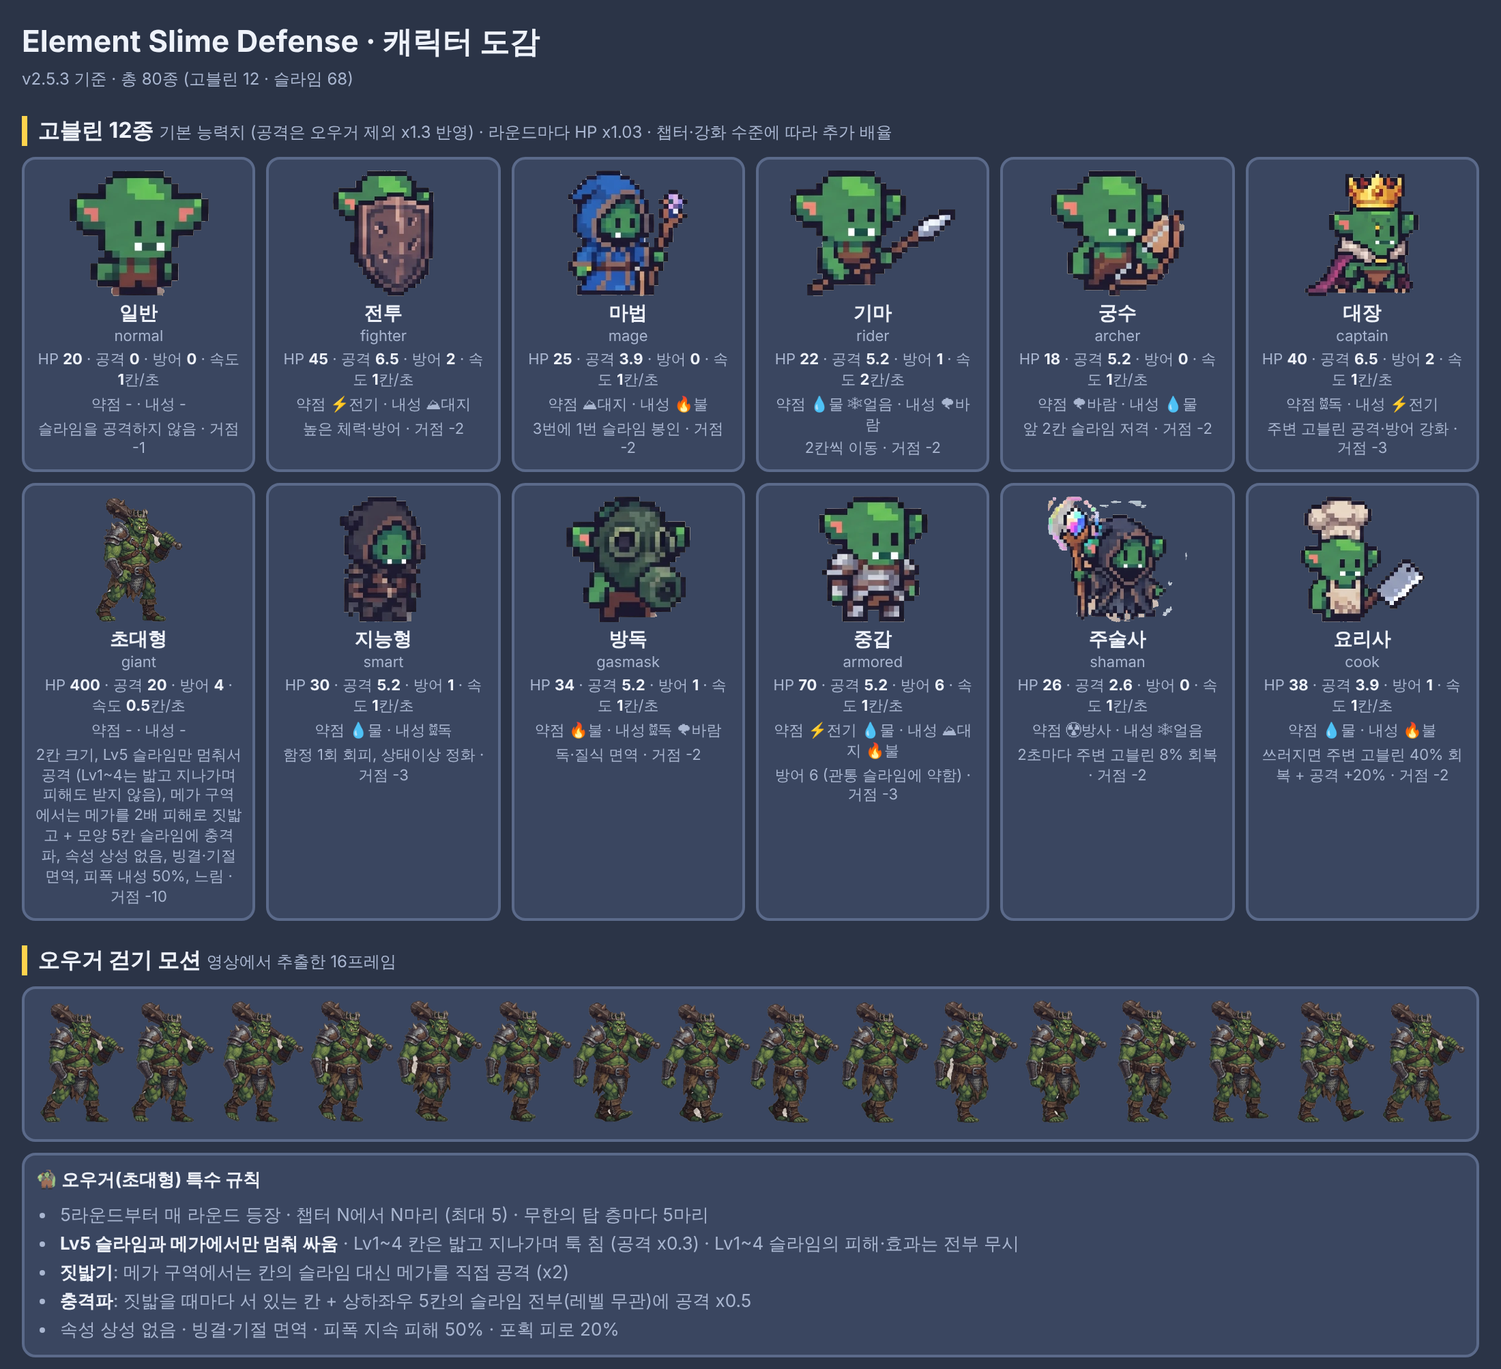
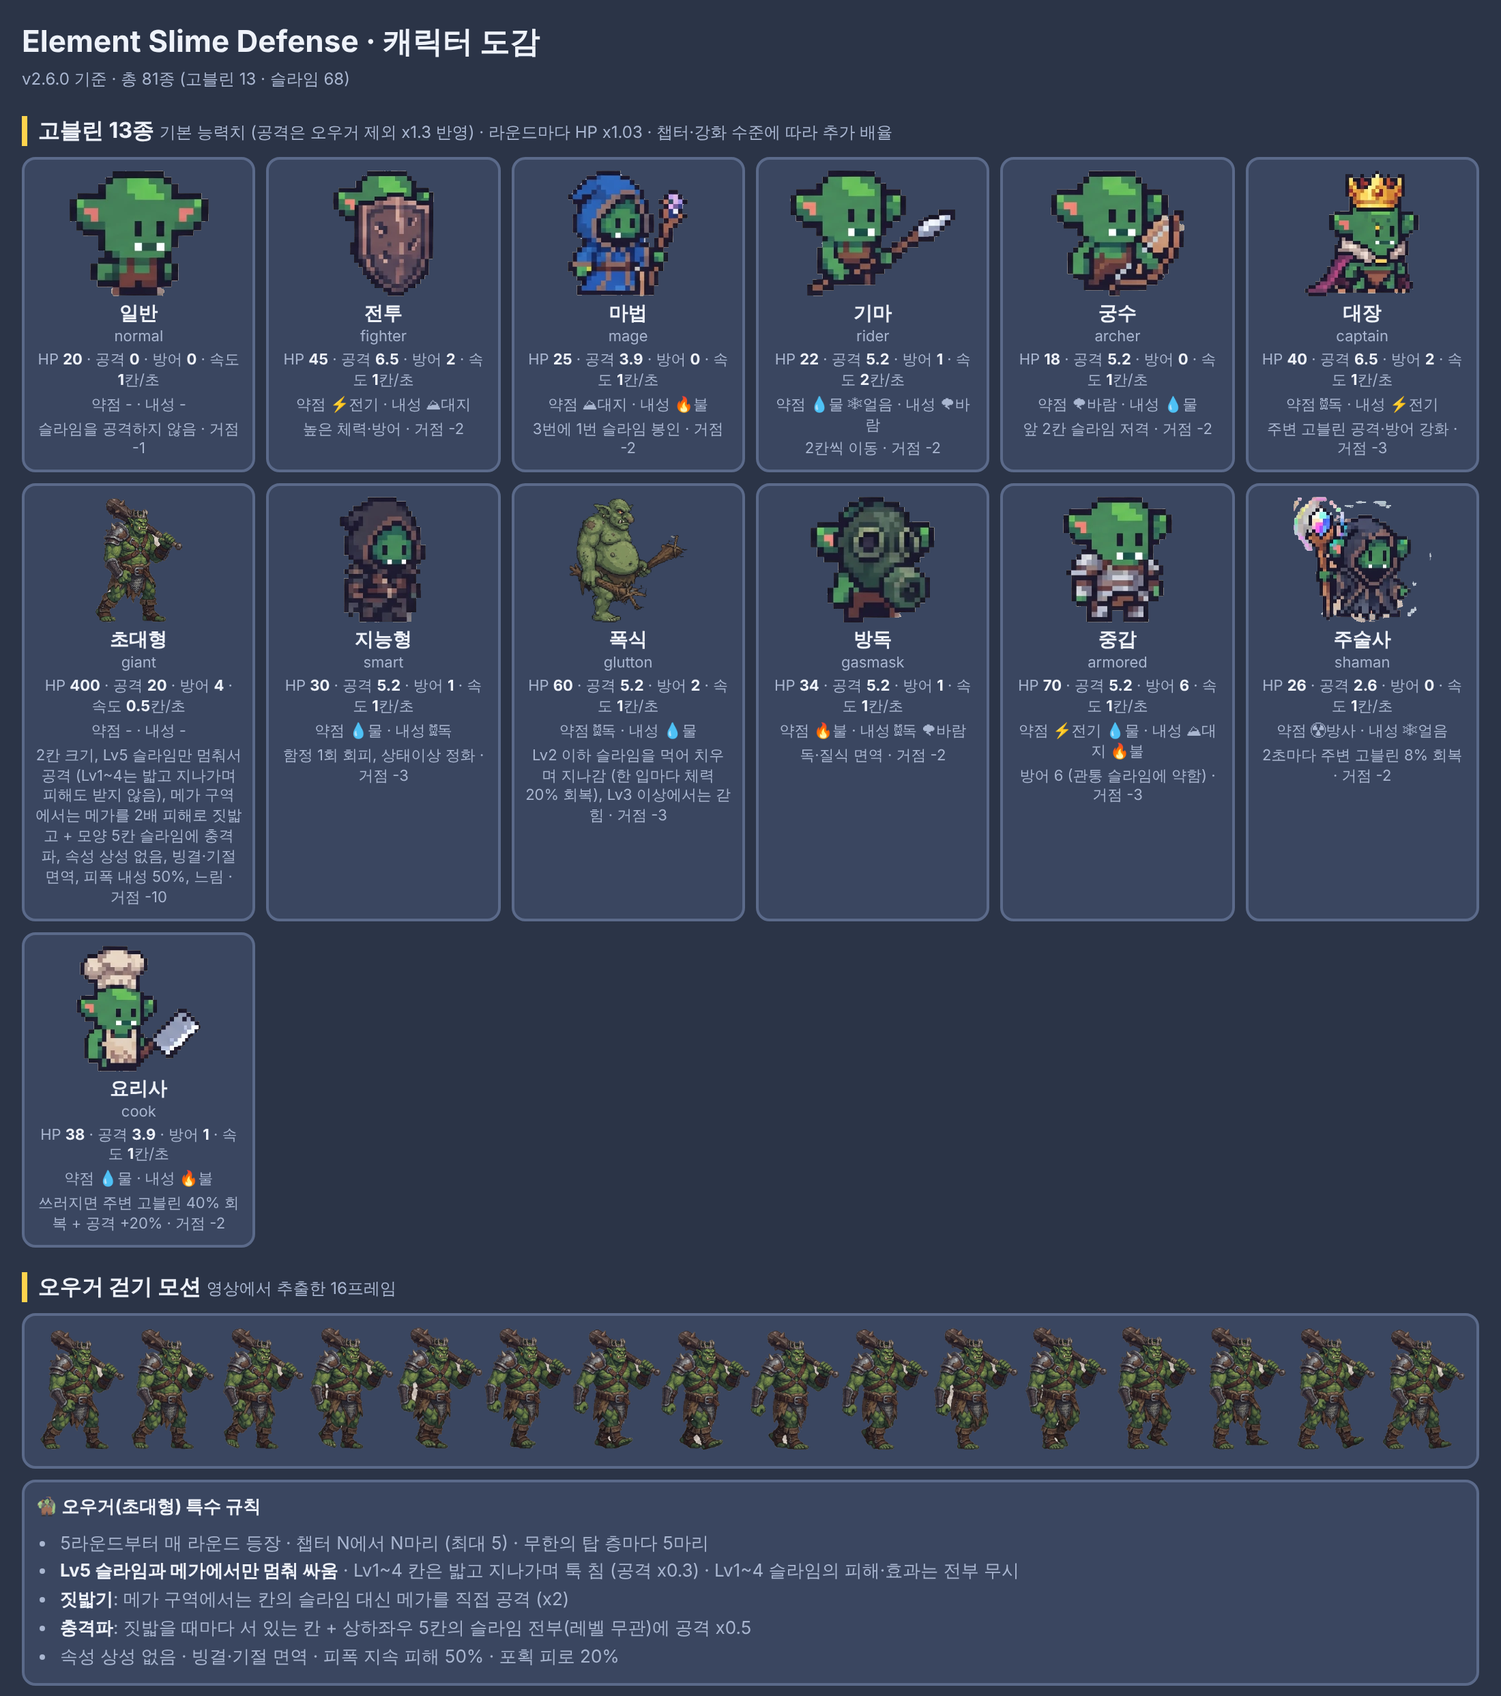
v2.6.0: 새 고블린 '폭식 고블린'
- Lv2 이하 슬라임 칸에 들어가면 통째로 먹어 없애고(갇히지 않음) 최대 체력 20% 회복, Lv3 이상에서는 갇힘
- 능력치 HP 60 · 공격 4(x1.3) · 방어 2 · 속도 1 · 거점 -3, 약점 독 / 내성 물
- 챕터 1은 6라운드부터 (2~4마리), 뒤 챕터일수록 일찍 등장, 무한의 탑 포함
- 영상에서 16프레임 걷기 시트 추출 (tools/extract_walk_dark.py), '냠!' 효과, 첫 섭취 안내
- 챕터 배율 재튜닝 (2.08 / 1.83 / 3.49 / 4.38 / 6.26), 캐릭터 도감 81종 갱신
- 업데이트 노트 v2.6.0, 테스트 142개

Claude-Session: https://claude.ai/code/session_01VoCZM7DGkmV39ftWkPMHK3

diff --git a/src/data.js b/src/data.js
@@ -32,6 +32,7 @@ export const CFG = {
   GOLD_SCALE: 0.3,              // 골드 획득 전체 배율 (성장 속도 조절)                // 무한의 탑: 층 사이 준비(초)                // 메가 슬라임 조합 가능 라운드 (이 라운드부터)
   MEGA_MUL: 1.2,
   MEGA_ATK: 2.4,
+  GLUTTON_HEAL: 0.2,            // 폭식 고블린: 슬라임 한 마리 먹을 때마다 최대 체력의 20% 회복
   GOBLIN_ATK_MUL: 1.3,          // 오우거를 제외한 고블린 공격력 배율 (v2.5.2 +30%)
   GIANT_STOMP_SPLASH: 0.5,      // 짓밟기 충격파: + 모양 5칸 슬라임에 오우거 공격력 x 0.5 (레벨 무관)
   GIANT_STOMP_MUL: 2,           // 오우거 짓밟기: 메가 구역에서 메가를 직접 공격할 때 피해 배율
@@ -197,6 +198,7 @@ export const GOBLINS = {
   giant:   { name: '초대형', desc: '2칸 크기, Lv5 슬라임만 멈춰서 공격 (Lv1~4는 밟고 지나가며 피해도 받지 않음), 메가 구역에서는 메가를 2배 피해로 짓밟고 + 모양 5칸 슬라임에 충격파, 속성 상성 없음, 빙결·기절 면역, 피폭 내성 50%, 느림', ch: '초', hp: 400, atk: 20, def: 4, spd: 0.5, leak: 10, multi: 2, size: 2, fatigue: 0.2, lv5Only: true, megaStomp: true, chAnchor: true, stRes: { radiate: 0.5 }, immune: ['freeze', 'stun'], color: '#7a5a3a', weak: [], resist: [] }, // 속성 상성 없음 (v2.4.3) · 2틱에 1칸, 2칸 크기
   smart:   { name: '지능형', desc: '함정 1회 회피, 상태이상 정화', ch: '지', hp: 30,  atk: 4,  def: 1, spd: 1, leak: 3,  evade: 1, cleanse: true, color: '#3ab0d6', weak: ['water'], resist: ['poison'] },
   // ---- 개편 추가 4종 ----
+  glutton: { name: '폭식', desc: 'Lv2 이하 슬라임을 먹어 치우며 지나감 (한 입마다 체력 20% 회복), Lv3 이상에서는 갇힘', ch: '폭', hp: 60, atk: 4, def: 2, spd: 1, leak: 3, eatLv: 2, color: '#6d8a3a', weak: ['poison'], resist: ['water'] }, // v2.6.0
   gasmask: { name: '방독', desc: '독·질식 면역', ch: '독', hp: 34,  atk: 4,  def: 1, spd: 1, leak: 2,  immune: ['poison', 'suffocate'], color: '#5f7a4a', weak: ['fire'], resist: ['poison', 'wind'] }, // 독·질식 면역
   armored: { name: '중갑', desc: '방어 6 (관통 슬라임에 약함)', ch: '갑', hp: 70,  atk: 4,  def: 6, spd: 1, leak: 3,  color: '#8e96a3', weak: ['elec', 'water'], resist: ['earth', 'fire'] }, // 방어 6 (관통 슬라임에 약함)
   shaman:  { name: '주술사', desc: '2초마다 주변 고블린 8% 회복', ch: '주', hp: 26, atk: 2,  def: 0, spd: 1, leak: 2,  heal: 0.08, color: '#4b4f7a', weak: ['rad'], resist: ['ice'] }, // 2틱마다 앞뒤 2칸 고블린 최대HP 8% 회복
@@ -216,17 +218,17 @@ export const ROUND_TABLE = [
   [['normal', 10], ['fighter', 6], ['gasmask', 2]],                                                      // 18
   [['normal', 10], ['fighter', 8], ['armored', 2], ['cook', 2]],                                         // 22
   [['normal', 11], ['fighter', 6], ['rider', 8], ['shaman', 2], ['armored', 2], ['giant', 1]],           // 30 (두 바퀴 시작 · 오우거 등장)
-  [['normal', 9], ['fighter', 8], ['archer', 8], ['rider', 4], ['cook', 3], ['gasmask', 3], ['giant', 1]], // 36
-  [['fighter', 9], ['mage', 8], ['archer', 6], ['rider', 6], ['shaman', 4], ['armored', 6], ['giant', 1]], // 40
-  [['normal', 7], ['fighter', 10], ['archer', 6], ['mage', 6], ['captain', 4], ['cook', 4], ['armored', 6], ['giant', 1]], // 44
-  [['fighter', 9], ['rider', 8], ['mage', 6], ['captain', 4], ['smart', 8], ['shaman', 6], ['gasmask', 6], ['giant', 1]], // 48
-  [['normal', 15], ['fighter', 10], ['armored', 6], ['captain', 4], ['smart', 8], ['shaman', 4], ['cook', 2], ['giant', 1]], // 50
+  [['normal', 7], ['fighter', 8], ['archer', 8], ['rider', 4], ['cook', 3], ['gasmask', 3], ['glutton', 2], ['giant', 1]], // 36 (폭식 등장)
+  [['fighter', 7], ['mage', 8], ['archer', 6], ['rider', 6], ['shaman', 4], ['armored', 6], ['glutton', 2], ['giant', 1]], // 40
+  [['normal', 4], ['fighter', 10], ['archer', 6], ['mage', 6], ['captain', 4], ['cook', 4], ['armored', 6], ['glutton', 3], ['giant', 1]], // 44
+  [['fighter', 6], ['rider', 8], ['mage', 6], ['captain', 4], ['smart', 8], ['shaman', 6], ['gasmask', 6], ['glutton', 3], ['giant', 1]], // 48
+  [['normal', 11], ['fighter', 10], ['armored', 6], ['captain', 4], ['smart', 8], ['shaman', 4], ['cook', 2], ['glutton', 4], ['giant', 1]], // 50
 ];
 
 // ---------- 챕터 (5개 x 10라운드) ----------
 const ROUND_COUNTS = [10, 14, 18, 22, 30, 36, 40, 44, 48, 50];
 // 고블린 첫 등장 라운드 (챕터가 올라갈수록 unlockShift만큼 앞당겨짐)
-const FIRST_ROUND = { normal: 1, gasmask: 2, fighter: 3, armored: 4, cook: 4, rider: 5, shaman: 5, archer: 6, mage: 7, captain: 8, smart: 9 };
+const FIRST_ROUND = { normal: 1, gasmask: 2, fighter: 3, armored: 4, cook: 4, rider: 5, shaman: 5, archer: 6, glutton: 6, mage: 7, captain: 8, smart: 9 };
 
 // 주력(focus) 고블린은 가중치 3, 일반 고블린은 초반에만 많이. 큰 나머지 방식으로 정확히 ROUND_COUNTS를 맞춘다
 function genRounds({ focus = [], chapter, unlockShift = 0 }) {
@@ -246,11 +248,11 @@ function genRounds({ focus = [], chapter, unlockShift = 0 }) {
 }
 
 export const CHAPTERS = [
-  { id: 1, name: '고블린 숲',   path: 'rows',    pathLabel: 'ㄹ자 (가로)',          hpMul: 1.95, atkMul: 1.34, boost: {},                         goldMul: 1.0, unlockAll: false, color: '#2f3a50', rounds: ROUND_TABLE },
-  { id: 2, name: '화산 동굴',   path: 'cols',    pathLabel: 'ㄹ자 (세로)',          hpMul: 1.77, atkMul: 1.29, boost: { fire: 1.25, ice: 0.75 },    goldMul: 1.5, unlockAll: true,  color: '#4a2f2c', rounds: genRounds({ focus: ['armored', 'fighter', 'cook'], chapter: 2, unlockShift: 1 }) },
-  { id: 3, name: '얼음 설원',   path: 'spiral',  pathLabel: '나선 (바깥→가운데)',   hpMul: 3.27, atkMul: 1.6, boost: { ice: 1.25, fire: 0.75 },     goldMul: 2.2, unlockAll: true,  color: '#2b4157', rounds: genRounds({ focus: ['rider', 'archer', 'smart'], chapter: 3, unlockShift: 2 }) },
-  { id: 4, name: '독 늪',       path: 'rowsRev', pathLabel: 'ㄹ자 (아래→위)',       hpMul: 4.11, atkMul: 1.71, boost: { poison: 1.25, water: 0.85 }, goldMul: 3.2, unlockAll: true,  color: '#2d4030', rounds: genRounds({ focus: ['gasmask', 'shaman', 'mage'], chapter: 4, unlockShift: 3 }) },
-  { id: 5, name: '고블린 왕성', path: 'colsRev', pathLabel: 'ㄹ자 (오른쪽→왼쪽)',   hpMul: 5.87, atkMul: 1.89, boost: { elec: 1.15, rad: 1.15 },     goldMul: 4.5, unlockAll: true,  color: '#3d2f4c', rounds: genRounds({ focus: ['captain', 'smart', 'armored', 'shaman'], chapter: 5, unlockShift: 4 }) },
+  { id: 1, name: '고블린 숲',   path: 'rows',    pathLabel: 'ㄹ자 (가로)',          hpMul: 2.08, atkMul: 1.37, boost: {},                         goldMul: 1.0, unlockAll: false, color: '#2f3a50', rounds: ROUND_TABLE },
+  { id: 2, name: '화산 동굴',   path: 'cols',    pathLabel: 'ㄹ자 (세로)',          hpMul: 1.83, atkMul: 1.31, boost: { fire: 1.25, ice: 0.75 },    goldMul: 1.5, unlockAll: true,  color: '#4a2f2c', rounds: genRounds({ focus: ['armored', 'fighter', 'cook'], chapter: 2, unlockShift: 1 }) },
+  { id: 3, name: '얼음 설원',   path: 'spiral',  pathLabel: '나선 (바깥→가운데)',   hpMul: 3.49, atkMul: 1.63, boost: { ice: 1.25, fire: 0.75 },     goldMul: 2.2, unlockAll: true,  color: '#2b4157', rounds: genRounds({ focus: ['rider', 'archer', 'smart'], chapter: 3, unlockShift: 2 }) },
+  { id: 4, name: '독 늪',       path: 'rowsRev', pathLabel: 'ㄹ자 (아래→위)',       hpMul: 4.38, atkMul: 1.75, boost: { poison: 1.25, water: 0.85 }, goldMul: 3.2, unlockAll: true,  color: '#2d4030', rounds: genRounds({ focus: ['gasmask', 'shaman', 'mage'], chapter: 4, unlockShift: 3 }) },
+  { id: 5, name: '고블린 왕성', path: 'colsRev', pathLabel: 'ㄹ자 (오른쪽→왼쪽)',   hpMul: 6.26, atkMul: 1.93, boost: { elec: 1.15, rad: 1.15 },     goldMul: 4.5, unlockAll: true,  color: '#3d2f4c', rounds: genRounds({ focus: ['captain', 'smart', 'armored', 'shaman'], chapter: 5, unlockShift: 4 }) },
 ];
 
 // 무한의 탑: 챕터 5 클리어 후 열림. 층마다 고블린이 강해지고 끝이 없다 (편성은 engine.towerRound)

diff --git a/src/engine.js b/src/engine.js
@@ -456,7 +456,7 @@ function makeGoblin(s, type) {
     id: s.nextId++, type, name: d.name, ch: d.ch, color: d.color, hp, maxhp: hp,
     atk: d.atk * (1 + CFG.ATK_GROWTH * r) * atkMul * (d.chAnchor ? 1 : CFG.GOBLIN_ATK_MUL), def: d.def + Math.floor(r / 3), spd: d.spd, leak: d.leak,
     multi: d.multi || 1, range: d.range || 0, aura: !!d.aura, evade: d.evade || 0, cleanse: !!d.cleanse,
-    weak: d.weak || [], resist: d.resist || [], immune: d.immune || [], heal: d.heal || 0, feast: d.feast || 0, lv5Only: !!d.lv5Only, megaStomp: !!d.megaStomp, stRes: d.stRes || null, atkBuff: 1,
+    weak: d.weak || [], resist: d.resist || [], immune: d.immune || [], heal: d.heal || 0, feast: d.feast || 0, lv5Only: !!d.lv5Only, megaStomp: !!d.megaStomp, eatLv: d.eatLv || 0, stRes: d.stRes || null, atkBuff: 1,
     idx: 0, pit: false, st: {}, fights: 0, dead: false,
   };
 }
@@ -561,10 +561,19 @@ function moveGoblin(s, g) {
     const [x, y] = PATH[ni];
     if (trapAt(s, x, y) && !pitOcc(s, ni, g)) {
       if (g.evade > 0) { g.evade--; continue; }
+      if (g.eatLv) { const top = columnSlimes(s, x, y)[0]; if (top && (top.lv || 0) <= g.eatLv) { eatSlime(s, g, top); if (!trapAt(s, x, y)) continue; } }
       if (g.lv5Only && !megaAt(s, x, y) && (columnSlimes(s, x, y)[0]?.lv || 0) < CFG.MAX_LV) { stompBy(s, g, x, y); if (g.dead) return; continue; }
       g.pit = true; s.fx.push({ k: 'fall', idx: ni }); break;
     }
   }
+}
+
+// 폭식 고블린: Lv(eatLv) 이하 슬라임을 통째로 먹고 체력을 회복한 뒤 계속 걷는다 (메가는 먹지 않음)
+function eatSlime(s, g, sl) {
+  removeSlime(s, sl); computeCounts(s);
+  const heal = g.maxhp * CFG.GLUTTON_HEAL; g.hp = Math.min(g.maxhp, g.hp + heal);
+  s.fx.push({ k: 'eat', idx: g.idx }, { k: 'heal', idx: g.idx, v: Math.round(heal) });
+  if (!g.ateSaid) { g.ateSaid = true; say(s, `😋 폭식 고블린이 ${sl.label} 슬라임(Lv${sl.lv})을 먹어 치웠습니다!`); }
 }
 
 // 오우거: Lv1~4 슬라임 칸은 갇히지 않고 밟고 지나간다. 슬라임이 한 번 공격하고, 오우거는 툭 치고(GIANT_TAP) 계속 걷는다

diff --git a/src/notes.js b/src/notes.js
@@ -2,6 +2,15 @@
 // 홈 화면 📢 버튼에서 볼 수 있고, 새 버전을 처음 실행하면 한 번 자동으로 열린다.
 export const NOTES = [
   {
+    v: 'v2.6.0', date: '2026-11-27', title: '새 고블린: 폭식 고블린',
+    items: [
+      ['😋', '<b>폭식 고블린</b>이 등장합니다. 길 위의 <b>Lv2 이하 슬라임을 통째로 먹어 치우며</b> 지나가고, 한 입마다 체력을 20% 회복합니다. Lv3 이상 슬라임에서는 다른 고블린처럼 갇힙니다.'],
+      ['🧪', '약점은 독, 내성은 물입니다. 챕터 1은 6라운드부터, 뒤 챕터일수록 더 일찍 나타납니다. 무한의 탑에도 등장합니다.'],
+      ['💡', '폭식 고블린이 오는 라운드 전에는 경로의 슬라임을 겹쳐서 Lv3 이상으로 올려 두세요.'],
+      ['⚖', '챕터 밸런스를 다시 맞췄습니다.'],
+    ],
+  },
+  {
     v: 'v2.5.3', date: '2026-11-27', title: '짓밟기 충격파',
     items: [
       ['💥', '오우거가 메가 슬라임을 짓밟을 때마다 <b>충격파</b>가 퍼집니다. 오우거가 서 있는 칸과 상하좌우(+ 모양 5칸)의 슬라임이 <b>레벨과 상관없이</b> 피해를 받습니다. 대각선 칸은 안전합니다.'],

diff --git a/src/sprites.js b/src/sprites.js
@@ -158,7 +158,7 @@ const SLIME_KEYS = [...ELEMENTS.map(e => e.sym), ...FUSIONS.map(f => f.key), ...
 // 고블린 그림 목록도 데이터(GOBLINS)에서 자동 생성 -> 종류를 추가해도 그림이 빠지지 않음
 // (예전에는 손으로 쓴 목록에 개편 4종이 빠져 게임에서 옛 기본 고블린으로 그려졌음)
 export const ASSET_NAMES = [
-  ...Object.keys(GOBLINS).map(k => 'goblin_' + k), 'goblin_giant_walk',
+  ...Object.keys(GOBLINS).map(k => 'goblin_' + k), 'goblin_giant_walk', 'goblin_glutton_walk',
   ...SLIME_KEYS.map(k => 'slime_' + k),
 ];
 export function loadAssets(base = 'assets/') {
@@ -206,7 +206,7 @@ function frozenOf(img, key) {
 
 // 걷기 모션 시트: 가로로 이어 붙인 프레임 (종류 -> 프레임 수)
 // n: 프레임 수, ms: 프레임당 시간 (영상 원본 24fps, 31프레임 주기를 16장으로 샘플링 -> 약 83ms)
-const WALK = { giant: { n: 16, ms: 83 } };
+const WALK = { giant: { n: 16, ms: 83 }, glutton: { n: 16, ms: 120 } }; // 폭식: 영상 67프레임 주기를 16장으로 샘플링
 const frameCache = new Map();
 function walkFrame(type, i) {
   const sheet = IMG[`goblin_${type}_walk`]; if (!sheet) return null;

diff --git a/src/main.js b/src/main.js
@@ -37,7 +37,7 @@ function commitEarnings(realDt) {
   if (ui.sessionSec > 60) PROF.goldRate = (ui.sessionGold / ui.sessionSec) * 60;
   saveProf();
 }
-export const APP_VERSION = 'v2.5.3'; // sw.js VERSION과 함께 올린다
+export const APP_VERSION = 'v2.6.0'; // sw.js VERSION과 함께 올린다
 
 const ui = {
   g: null, speed: 1, paused: false, acc: 0, last: 0,
@@ -849,6 +849,7 @@ function collectFx() {
     if (f.k === 'kill') ui.puffs.push({ idx: f.idx, t0: now, seed: Math.random() * 6 });
     if (f.k === 'heal') ui.floats.push({ idx: f.idx, text: '+' + f.v, col: '#7dff9a', t0: now, dx: (Math.random() - 0.5) * 18 });
     if (f.k === 'leak') ui.floats.push({ idx: f.idx, text: `거점 -${f.v}`, col: '#ff4040', t0: now, dx: 0 });
+    if (f.k === 'eat') ui.floats.push({ idx: f.idx, text: '냠!', col: '#9be36a', t0: now, dx: 12 });
     if (f.k === 'stomp') ui.floats.push({ idx: f.idx, text: '쿵!', col: '#e0b07a', t0: now, dx: -14 });
     if (f.k === 'slimeHit') { const i = PATH_IDX.get(`${f.x},${f.y}`); if (i !== undefined) ui.floats.push({ idx: i, text: '▼' + f.v, col: '#ff9a5a', t0: now, dx: (Math.random() - 0.5) * 14 }); }
   }

diff --git a/sw.js b/sw.js
@@ -1,5 +1,5 @@
 // 앱 셸 캐시. 파일 변경 시 VERSION을 올리면 구버전 캐시가 삭제된다.
-const VERSION = 'esd-v2.5.3';
+const VERSION = 'esd-v2.6.0';
 const ASSETS = [
   './', './index.html', './manifest.json',
   './src/style.css', './src/main.js', './src/engine.js', './src/data.js', './src/meta.js', './src/sprites.js', './src/online.js', './src/notes.js',
@@ -12,6 +12,8 @@ const ASSETS = [
   './assets/goblin_gasmask.png',
   './assets/goblin_giant.png',
   './assets/goblin_giant_walk.png',
+  './assets/goblin_glutton.png',
+  './assets/goblin_glutton_walk.png',
   './assets/goblin_mage.png',
   './assets/goblin_normal.png',
   './assets/goblin_rider.png',

diff --git a/tools/catalog.html b/tools/catalog.html
@@ -92,7 +92,7 @@ section('기타 2종', '혼합물 · 메가', [
 ]);
 
 const total = Object.keys(GOBLINS).length + ELEMENTS.length + FUSIONS.length + RECIPES.length + JOKES.length + 2;
-document.getElementById('meta').textContent = `v2.5.3 기준 · 총 ${total}종 (고블린 ${Object.keys(GOBLINS).length} · 슬라임 ${total - Object.keys(GOBLINS).length})`;
+document.getElementById('meta').textContent = `v2.6.0 기준 · 총 ${total}종 (고블린 ${Object.keys(GOBLINS).length} · 슬라임 ${total - Object.keys(GOBLINS).length})`;
 document.body.dataset.ready = '1';
 </script>
 </body>

diff --git a/tools/extract_walk_dark.py b/tools/extract_walk_dark.py
@@ -1,0 +1,85 @@
+"""어두운 단색 배경(회색) 걷기 영상 -> 걷기 시트 + 정지 이미지
+
+사용:
+  ffmpeg -i 영상.mp4 프레임폴더/f_%03d.png
+  python3 tools/extract_walk_dark.py 프레임폴더 assets 시작 끝 간격 이름
+  예) python3 tools/extract_walk_dark.py /tmp/frames assets 30 90 4 goblin_glutton_walk
+
+- 테두리에서 시작해 '채도가 낮은 회색(배경·바닥 그림자)'만 지운다 (외곽선처럼 아주 어두운 색은 보존)
+- 가장 큰 연결 덩어리만 남겨 먼지·반짝이 효과를 버린다
+- 제자리 걷기이므로 모든 프레임의 합집합 영역으로 잘라 흔들림을 막는다
+- 높이 220px로 맞춰 가로로 이어 붙인 시트와 첫 프레임 정지 이미지를 저장한다
+"""
+import sys
+from collections import deque
+from PIL import Image
+
+
+def remove_dark_bg(im, lo=40, hi=95, sat=9):
+    im = im.convert('RGBA'); w, h = im.size; px = im.load(); seen = bytearray(w * h)
+
+    def is_bg(c):
+        r, g, b = c[:3]
+        return max(r, g, b) - min(r, g, b) <= sat and lo <= (r + g + b) / 3 <= hi
+
+    q = deque((x, y) for x in range(w) for y in (0, h - 1))
+    q.extend((x, y) for y in range(h) for x in (0, w - 1))
+    while q:
+        x, y = q.popleft(); i = y * w + x
+        if seen[i]:
+            continue
+        seen[i] = 1
+        if not is_bg(px[x, y]):
+            continue
+        px[x, y] = (0, 0, 0, 0)
+        for dx, dy in ((1, 0), (-1, 0), (0, 1), (0, -1)):
+            nx, ny = x + dx, y + dy
+            if 0 <= nx < w and 0 <= ny < h and not seen[ny * w + nx]:
+                q.append((nx, ny))
+    return im
+
+
+def keep_largest(im):
+    w, h = im.size; px = im.load(); seen = bytearray(w * h); comps = []
+    for sy in range(h):
+        for sx in range(w):
+            if seen[sy * w + sx] or px[sx, sy][3] == 0:
+                continue
+            comp, q = [], deque([(sx, sy)]); seen[sy * w + sx] = 1
+            while q:
+                x, y = q.popleft(); comp.append((x, y))
+                for dx, dy in ((1, 0), (-1, 0), (0, 1), (0, -1)):
+                    nx, ny = x + dx, y + dy
+                    if 0 <= nx < w and 0 <= ny < h and not seen[ny * w + nx] and px[nx, ny][3] > 0:
+                        seen[ny * w + nx] = 1; q.append((nx, ny))
+            comps.append(comp)
+    if not comps:
+        return im
+    keep = set(max(comps, key=len))
+    for comp in comps:
+        if len(comp) and comp[0] not in keep:
+            for x, y in comp:
+                px[x, y] = (0, 0, 0, 0)
+    return im
+
+
+def main():
+    if len(sys.argv) != 7:
+        print(__doc__); sys.exit(1)
+    src, out, start, end, step, name = sys.argv[1], sys.argv[2], int(sys.argv[3]), int(sys.argv[4]), int(sys.argv[5]), sys.argv[6]
+    frames = [keep_largest(remove_dark_bg(Image.open(f'{src}/f_{i:03d}.png'))) for i in range(start, end + 1, step)]
+    boxes = [f.getbbox() for f in frames]
+    ub = (min(b[0] for b in boxes), min(b[1] for b in boxes), max(b[2] for b in boxes), max(b[3] for b in boxes))
+    frames = [f.crop(ub) for f in frames]
+    fw, fh = frames[0].size
+    k = 220 / fh; tw = round(fw * k)
+    sheet = Image.new('RGBA', (tw * len(frames), 220), (0, 0, 0, 0))
+    for i, f in enumerate(frames):
+        sheet.paste(f.resize((tw, 220), Image.LANCZOS), (i * tw, 0))
+    sheet.save(f'{out}/{name}.png')
+    still = sheet.crop((0, 0, tw, 220)); still.crop(still.getbbox()).save(f'{out}/' + name.replace('_walk', '') + '.png')
+    print(name, 'frames', len(frames), 'frame', tw, 'x 220')
+
+
+if __name__ == '__main__':
+    main()
